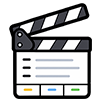
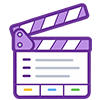
feat: add Daily Wage relic, fix Bombard Chibi fuel tag, refresh relic art
Daily Wage pays gold after Script plays and skips shops; Bombard Chibi Script now carries Burning so Fuel Abundant applies; sync eng flavors and update relic images.

diff --git a/Relics/DailyWageRelic.cs b/Relics/DailyWageRelic.cs
@@ -1,0 +1,89 @@
+using System.Collections.Generic;
+using System.Linq;
+using System.Threading.Tasks;
+using MegaCrit.Sts2.Core.Combat;
+using MegaCrit.Sts2.Core.Commands;
+using MegaCrit.Sts2.Core.Entities.Cards;
+using MegaCrit.Sts2.Core.Entities.Creatures;
+using MegaCrit.Sts2.Core.Entities.Relics;
+using MegaCrit.Sts2.Core.GameActions.Multiplayer;
+using MegaCrit.Sts2.Core.Localization.DynamicVars;
+using MegaCrit.Sts2.Core.Models;
+using MegaCrit.Sts2.Core.Rooms;
+using Squ;
+using Squ.Character;
+using STS2RitsuLib.Interop.AutoRegistration;
+using STS2RitsuLib.Scaffolding.Content;
+
+#nullable enable
+
+namespace Squ.Relics;
+
+/// <summary>
+/// 日结工资：回合结束时若本回合打出过剧本牌，获得金币；不在商人处出售。
+/// </summary>
+[RegisterRelic(typeof(SunqianRelicPool), StableEntryStem = "daily_wage")]
+public sealed class DailyWageRelic : ScriptRelicTemplate
+{
+	private bool _playedScriptThisTurn;
+
+	public override RelicRarity Rarity => RelicRarity.Uncommon;
+
+	public override bool IsAllowedInShops => false;
+
+	protected override IEnumerable<DynamicVar> CanonicalVars =>
+	[
+		new GoldVar(3),
+	];
+
+	public override RelicAssetProfile AssetProfile => new(
+		IconPath: "res://images/relics/DailyWageRelic.png",
+		IconOutlinePath: "res://images/relics/DailyWageRelicOutline.png",
+		BigIconPath: "res://images/relics/DailyWageRelicBig.png");
+
+	private bool PlayedScriptThisTurn
+	{
+		get => _playedScriptThisTurn;
+		set
+		{
+			AssertMutable();
+			_playedScriptThisTurn = value;
+			Status = value ? RelicStatus.Active : RelicStatus.Normal;
+		}
+	}
+
+	public override Task AfterCardPlayed(PlayerChoiceContext choiceContext, CardPlay cardPlay)
+	{
+		if (cardPlay.Card.Owner != Owner
+			|| !CombatManager.Instance.IsInProgress
+			|| !cardPlay.Card.Tags.Contains(SquCardTags.Script)
+			|| PlayedScriptThisTurn)
+		{
+			return Task.CompletedTask;
+		}
+
+		PlayedScriptThisTurn = true;
+		return Task.CompletedTask;
+	}
+
+	public override async Task AfterSideTurnEnd(
+		PlayerChoiceContext choiceContext,
+		CombatSide side,
+		IEnumerable<Creature> participants)
+	{
+		if (!participants.Contains(Owner.Creature) || !PlayedScriptThisTurn)
+		{
+			return;
+		}
+
+		Flash();
+		await PlayerCmd.GainGold(DynamicVars.Gold.BaseValue, Owner);
+		PlayedScriptThisTurn = false;
+	}
+
+	public override Task AfterCombatEnd(CombatRoom room)
+	{
+		PlayedScriptThisTurn = false;
+		return Task.CompletedTask;
+	}
+}

diff --git a/Cards/BombardChibiScript.cs b/Cards/BombardChibiScript.cs
@@ -37,6 +37,8 @@ public sealed class BombardChibiScript : ScriptCardTemplate
 
 	public override bool GainsBlock => true;
 
+	protected override HashSet<CardTag> CanonicalTags => [SquCardTags.Script, SquCardTags.Burning];
+
 	protected override IEnumerable<IHoverTip> AdditionalHoverTips =>
 	[
 		HoverTipFactory.FromPower<BurningPower>(),
